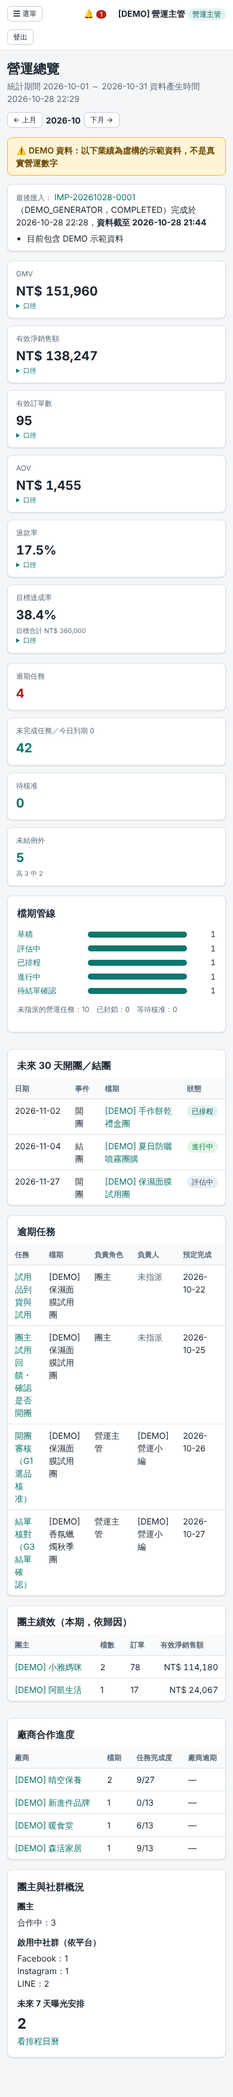
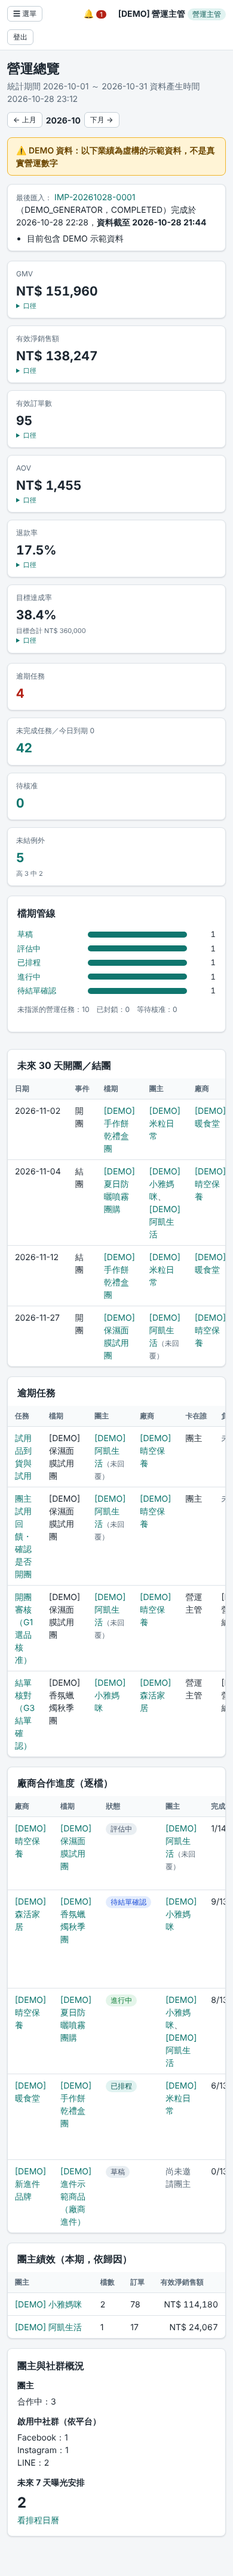
feat(dashboard): 總覽清單標出團主與廠商、逐檔廠商合作進度；修正手機版溢出
- 未來 30 天、逾期任務加入團主／廠商；一檔既開團又結團時兩事件皆列出
- 新增逐檔廠商合作進度（完成度、下一個任務、逾期）
- 窄螢幕格線 minmax(0,1fr)，修正 E2E 抓到的 78px 溢出
- 測試 +5（舊版跑紅 4 項）；文件同步

Claude-Session: https://claude.ai/code/session_01YSzTHPcBVxK1Rqana44Uqa

diff --git a/src/app/(app)/dashboard/page.tsx b/src/app/(app)/dashboard/page.tsx
@@ -5,7 +5,15 @@ import { Banner, Badge, Card, EmptyState, KpiCard, PageHeader, StatusBadge, Tabl
 import { CAMPAIGN_STATUS, SEVERITY, ownerRoleLabel, PLATFORM } from '@/ui/labels';
 import { fmtDateTime, money, num, pct } from '@/ui/format';
 import { STATUS_LABEL, type CampaignStatus } from '@/server/workflow/state';
-import { as, type AdminDash } from '@/ui/types';
+import { as, type AdminDash, type CampaignHostRef } from '@/ui/types';
+
+/** 檔期的參與團主：點名字進團主頁；未回覆的標示出來 */
+function HostNames({ hosts }: { hosts: CampaignHostRef[] }) {
+  if (!hosts.length) return <span className="muted">尚未邀請團主</span>;
+  return <>{hosts.map((h, i) => (
+    <span key={h.hostId}>{i ? '、' : ''}<Link href={`/hosts/${h.hostId}`}>{h.name}</Link>{h.status === 'CONFIRMED' ? '' : <span className="small muted">（{h.status === 'INVITED' ? '待回覆' : h.status === 'NO_RESPONSE' ? '未回覆' : h.status}）</span>}</span>
+  ))}</>;
+}
 
 export const dynamic = 'force-dynamic';
 
@@ -63,9 +71,9 @@ export default withActor(async (actor, props: { searchParams: SP }) => {
         </Card>
         <Card title="未來 30 天開團／結團" testid="upcoming" flush>
           {d.upcoming.length === 0 ? <EmptyState title="未來 30 天沒有開團或結團" /> : (
-            <Table head={['日期', '事件', '檔期', '狀態']}>
-              {(d.upcoming as { id: string; title: string; status: string; event: string; eventDate: string }[]).map((u) => (
-                <tr key={`${u.id}${u.event}`} data-testid={`upcoming-${u.id}`}><td className="nowrap">{u.eventDate}</td><td>{u.event === 'OPEN' ? '開團' : '結團'}</td><td><Link href={`/campaigns/${u.id}`}>{u.title}</Link></td><td><StatusBadge map={CAMPAIGN_STATUS} value={u.status} /></td></tr>
+            <Table head={['日期', '事件', '檔期', '團主', '廠商', '狀態']}>
+              {d.upcoming.map((u) => (
+                <tr key={`${u.id}${u.event}`} data-testid={`upcoming-${u.id}`}><td className="nowrap">{u.eventDate}</td><td>{u.event === 'OPEN' ? '開團' : '結團'}</td><td><Link href={`/campaigns/${u.id}`}>{u.title}</Link></td><td data-testid={`upcoming-hosts-${u.id}`}><HostNames hosts={u.hosts} /></td><td><Link href={`/vendors/${u.vendorId}`}>{u.vendorName}</Link></td><td><StatusBadge map={CAMPAIGN_STATUS} value={u.status} /></td></tr>
               ))}
             </Table>
           )}
@@ -74,29 +82,38 @@ export default withActor(async (actor, props: { searchParams: SP }) => {
 
       <Card title="逾期任務" testid="overdue-list" flush>
         {d.overdueTasks.length === 0 ? <EmptyState title="目前沒有逾期任務 🎉" /> : (
-          <Table head={['任務', '檔期', '負責角色', '負責人', '預定完成', '逾期']}>
-            {(d.overdueTasks as { id: string; name: string; campaignId: string; campaignTitle: string; ownerRole: string; assigneeName: string | null; plannedEnd: string; daysLate: number }[]).map((t) => (
-              <tr key={t.id} data-testid={`overdue-${t.id}`}><td><Link href={`/campaigns/${t.campaignId}?tab=tasks`}>{t.name}</Link></td><td>{t.campaignTitle}</td><td>{ownerRoleLabel(t.ownerRole)}</td><td>{t.assigneeName ?? <span className="muted">未指派</span>}</td><td>{t.plannedEnd}</td><td><Badge tone="danger">{t.daysLate} 天</Badge></td></tr>
+          <Table head={['任務', '檔期', '團主', '廠商', '卡在誰', '負責人', '預定完成', '逾期']}>
+            {d.overdueTasks.map((t) => (
+              <tr key={t.id} data-testid={`overdue-${t.id}`}><td><Link href={`/campaigns/${t.campaignId}?tab=tasks`}>{t.name}</Link></td><td>{t.campaignTitle}</td><td data-testid={`overdue-hosts-${t.id}`}><HostNames hosts={t.hosts} /></td><td><Link href={`/vendors/${t.vendorId}`}>{t.vendorName}</Link></td><td>{ownerRoleLabel(t.ownerRole)}</td><td>{t.assigneeName ?? <span className="muted">未指派</span>}</td><td>{t.plannedEnd}</td><td><Badge tone="danger">{t.daysLate} 天</Badge></td></tr>
             ))}
           </Table>
         )}
       </Card>
 
-      <div className="grid cols-2">
+      <Card title="廠商合作進度（逐檔）" testid="vendor-progress" flush>
+        {d.vendorCampaigns.length === 0 ? <EmptyState title="目前沒有進行中的廠商檔期" /> : (
+          <Table head={['廠商', '檔期', '狀態', '團主', '完成度', '下一個任務', '逾期']}>
+            {d.vendorCampaigns.map((v) => (
+              <tr key={v.campaignId} data-testid={`vendorprog-${v.campaignId}`}>
+                <td><Link href={`/vendors/${v.vendorId}`}>{v.vendorName}</Link></td>
+                <td><Link href={`/campaigns/${v.campaignId}`}>{v.title}</Link></td>
+                <td><StatusBadge map={CAMPAIGN_STATUS} value={v.status} /></td>
+                <td><HostNames hosts={v.hosts} /></td>
+                <td className="nowrap">{v.tasksDone}/{v.tasksTotal}（{v.tasksTotal ? Math.round((v.tasksDone / v.tasksTotal) * 100) : 0}%）</td>
+                <td>{v.nextTaskName ? <>{v.nextTaskName}<span className="small muted">&emsp;{v.nextTaskOwnerRole ? ownerRoleLabel(v.nextTaskOwnerRole) : ''}&emsp;{v.nextTaskDue ?? '未定'}</span></> : <span className="muted">全部完成</span>}</td>
+                <td>{v.overdue ? <Badge tone="danger">{v.overdue}{v.vendorOverdue ? `（廠商 ${v.vendorOverdue}）` : ''}</Badge> : '—'}</td>
+              </tr>
+            ))}
+          </Table>
+        )}
+      </Card>
+
+      <div>
         <Card title="團主績效（本期，依歸因）" testid="host-performance" flush>
           {!s ? <EmptyState title="無檢視權限" /> : d.hostPerformance.length === 0 ? <EmptyState title="本期沒有歸因到團主的訂單" hint={dq.status === 'NO_DATA' ? '待串接訂單資料' : undefined} /> : (
             <Table head={['團主', '檔數', '訂單', '有效淨銷售額']}>
               {(d.hostPerformance as { hostId: string; name: string; campaigns: number; net: number; orders: number }[]).map((h) => (
                 <tr key={h.hostId} data-testid={`hostperf-${h.hostId}`}><td><Link href={`/hosts/${h.hostId}`}>{h.name}</Link></td><td>{h.campaigns}</td><td>{h.orders}</td><td className="num">{money(h.net)}</td></tr>
-              ))}
-            </Table>
-          )}
-        </Card>
-        <Card title="廠商合作進度" testid="vendor-progress" flush>
-          {d.vendors.length === 0 ? <EmptyState title="目前沒有進行中的廠商檔期" /> : (
-            <Table head={['廠商', '檔期', '任務完成度', '廠商逾期']}>
-              {(d.vendors as { vendorId: string; name: string; campaigns: number; tasksTotal: number; tasksDone: number; vendorOverdue: number }[]).map((v) => (
-                <tr key={v.vendorId}><td><Link href={`/vendors/${v.vendorId}`}>{v.name}</Link></td><td>{v.campaigns}</td><td>{v.tasksDone}/{v.tasksTotal}</td><td>{v.vendorOverdue ? <Badge tone="danger">{v.vendorOverdue}</Badge> : '—'}</td></tr>
               ))}
             </Table>
           )}

diff --git a/src/server/modules/dashboard.ts b/src/server/modules/dashboard.ts
@@ -67,6 +67,11 @@ async function salesAgg(db: Queryable, scopeSql: string, scopeParams: unknown[],
   return r.rows.map((x) => ({ status: x.status, n: x.n, gross: Number(x.gross), refund: Number(x.refund), refundedN: x.refunded_n }));
 }
 
+/** 檔期的參與團主（不含已婉拒）：主要團主排前面。供儀表板清單標出「是哪位團主」 */
+const CAMPAIGN_HOSTS_JSON = `(SELECT coalesce(json_agg(json_build_object('hostId', h.id, 'name', h.display_name, 'role', ch.role, 'status', ch.status) ORDER BY (ch.role = 'PRIMARY') DESC, h.display_name), '[]'::json)
+  FROM campaign_hosts ch JOIN hosts h ON h.id = ch.host_id
+  WHERE ch.campaign_id = c.id AND ch.deleted_at IS NULL AND h.deleted_at IS NULL AND ch.status <> 'DECLINED')`;
+
 // ===================== 管理者 Dashboard =====================
 export async function getAdminDashboard(actor: Actor, periodYm?: string | null) {
   requirePerm(actor, 'dashboard.admin');
@@ -81,13 +86,15 @@ export async function getAdminDashboard(actor: Actor, periodYm?: string | null) 
   const showTargets = showSales && can(actor, 'campaign.sensitive.read');   // 檔期目標屬內部敏感資料
 
   const pipeline = (await db.query(`SELECT c.status, count(*)::int AS n FROM campaigns c WHERE (${sc.sql}) GROUP BY c.status`, sc.params)).rows;
+  // 一檔在 30 天內既開團又結團時，兩個事件都要列出（各一列）
+  const n0 = sc.params.length;
+  const upcomingSelect = (event: 'OPEN' | 'CLOSE', col: 'open_date' | 'close_date') =>
+    `SELECT c.id, c.title, c.status, c.open_date, c.close_date, c.vendor_id, v.name AS vendor_name, ${CAMPAIGN_HOSTS_JSON} AS hosts, '${event}' AS event, c.${col} AS event_date
+     FROM campaigns c JOIN vendors v ON v.id = c.vendor_id
+     WHERE (${sc.sql}) AND c.status NOT IN ('CLOSED','CANCELLED') AND c.${col} BETWEEN $${n0 + 1}::date AND $${n0 + 2}::date`;
   const upcoming = (await db.query(
-    `SELECT c.id, c.title, c.status, c.open_date, c.close_date,
-       CASE WHEN c.open_date BETWEEN $${sc.params.length + 1}::date AND $${sc.params.length + 2}::date THEN 'OPEN' ELSE 'CLOSE' END AS event,
-       CASE WHEN c.open_date BETWEEN $${sc.params.length + 1}::date AND $${sc.params.length + 2}::date THEN c.open_date ELSE c.close_date END AS event_date
-     FROM campaigns c WHERE (${sc.sql}) AND c.status NOT IN ('CLOSED','CANCELLED')
-       AND (c.open_date BETWEEN $${sc.params.length + 1}::date AND $${sc.params.length + 2}::date OR c.close_date BETWEEN $${sc.params.length + 1}::date AND $${sc.params.length + 2}::date)
-     ORDER BY event_date, c.id LIMIT 100`, [...sc.params, today, addDays(today, 30)])).rows;
+    `SELECT * FROM (${upcomingSelect('OPEN', 'open_date')} UNION ALL ${upcomingSelect('CLOSE', 'close_date')}) e
+     ORDER BY event_date, id, event DESC LIMIT 100`, [...sc.params, today, addDays(today, 30)])).rows;
 
   let sales = null;
   let unattributed: number | null = null;
@@ -142,8 +149,9 @@ export async function getAdminDashboard(actor: Actor, periodYm?: string | null) 
      FROM tasks t JOIN campaigns c ON c.id=t.campaign_id WHERE (${sc.sql}) AND c.status NOT IN ('CANCELLED','ON_HOLD','CLOSED')`, [...sc.params, today])).rows[0];
   const overdueList = (await db.query(
     `SELECT t.id, t.name, t.campaign_id, c.title AS campaign_title, t.owner_role, t.planned_end, u.name AS assignee_name,
+       c.vendor_id, v.name AS vendor_name, ${CAMPAIGN_HOSTS_JSON} AS hosts,
        ($${sc.params.length + 1}::date - t.planned_end)::int AS days_late
-     FROM tasks t JOIN campaigns c ON c.id=t.campaign_id LEFT JOIN users u ON u.id=t.assignee_user_id
+     FROM tasks t JOIN campaigns c ON c.id=t.campaign_id JOIN vendors v ON v.id=c.vendor_id LEFT JOIN users u ON u.id=t.assignee_user_id
      WHERE (${sc.sql}) AND c.status NOT IN ('CANCELLED','ON_HOLD','CLOSED') AND t.status IN ('TODO','IN_PROGRESS','BLOCKED','WAITING_APPROVAL') AND t.planned_end < $${sc.params.length + 1}::date
      ORDER BY t.planned_end, t.id LIMIT 20`, [...sc.params, today])).rows;
   const exceptions = can(actor, 'exception.read')
@@ -159,6 +167,20 @@ export async function getAdminDashboard(actor: Actor, periodYm?: string | null) 
        count(t.id) FILTER (WHERE t.owner_role='VENDOR' AND t.status IN ('TODO','IN_PROGRESS','BLOCKED') AND t.planned_end < $${sc.params.length + 1}::date)::int AS vendor_overdue
      FROM campaigns c JOIN vendors v ON v.id=c.vendor_id LEFT JOIN tasks t ON t.campaign_id=c.id
      WHERE (${sc.sql}) AND c.status NOT IN ('CLOSED','CANCELLED') GROUP BY v.id, v.name ORDER BY campaigns DESC, v.name LIMIT 30`, [...sc.params, today])).rows;
+  // 廠商合作進度（逐檔）：目前卡在哪個任務、是誰的、完成度、逾期數、哪些團主參與
+  const vendorCampaigns = (await db.query(
+    `SELECT c.id AS campaign_id, c.title, c.status, c.vendor_id, v.name AS vendor_name, c.open_date, c.close_date, ${CAMPAIGN_HOSTS_JSON} AS hosts,
+       count(t.id) FILTER (WHERE t.status NOT IN ('SKIPPED','CANCELLED'))::int AS tasks_total,
+       count(t.id) FILTER (WHERE t.status = 'DONE')::int AS tasks_done,
+       count(t.id) FILTER (WHERE t.status IN ('TODO','IN_PROGRESS','BLOCKED','WAITING_APPROVAL') AND t.planned_end < $${sc.params.length + 1}::date)::int AS overdue,
+       count(t.id) FILTER (WHERE t.owner_role = 'VENDOR' AND t.status IN ('TODO','IN_PROGRESS','BLOCKED') AND t.planned_end < $${sc.params.length + 1}::date)::int AS vendor_overdue,
+       nt.name AS next_task_name, nt.planned_end AS next_task_due, nt.owner_role AS next_task_owner_role
+     FROM campaigns c JOIN vendors v ON v.id = c.vendor_id LEFT JOIN tasks t ON t.campaign_id = c.id
+     LEFT JOIN LATERAL (SELECT x.name, x.planned_end, x.owner_role FROM tasks x WHERE x.campaign_id = c.id AND x.status IN ('TODO','IN_PROGRESS','BLOCKED','WAITING_APPROVAL')
+                        ORDER BY x.planned_end NULLS LAST, x.seq LIMIT 1) nt ON true
+     WHERE (${sc.sql}) AND c.status NOT IN ('CLOSED','CANCELLED')
+     GROUP BY c.id, v.id, v.name, nt.name, nt.planned_end, nt.owner_role
+     ORDER BY overdue DESC, c.open_date NULLS LAST, c.id LIMIT 50`, [...sc.params, today])).rows;
   const communities = (await db.query(
     `SELECT platform, count(*)::int AS n FROM communities WHERE organization_id=$1 AND deleted_at IS NULL AND status='ACTIVE' GROUP BY platform ORDER BY platform`, [actor.orgId])).rows;
   const hostCounts = (await db.query(`SELECT status, count(*)::int AS n FROM hosts WHERE organization_id=$1 AND deleted_at IS NULL GROUP BY status`, [actor.orgId])).rows;
@@ -186,6 +208,7 @@ export async function getAdminDashboard(actor: Actor, periodYm?: string | null) 
     exceptions: camelize(exceptions),
     pendingApprovals,
     vendors: camelize(vendors),
+    vendorCampaigns: camelize(vendorCampaigns),
   };
 }
 

diff --git a/tests/orders-dashboard.test.ts b/tests/orders-dashboard.test.ts
@@ -6,6 +6,7 @@ import { getAdminDashboard, getHostDashboard } from '@/server/modules/dashboard'
 import { computeSales } from '@/server/lib/kpi';
 import { todayTaipei } from '@/server/lib/ids';
 import type { Actor } from '@/server/lib/permissions';
+import type { AdminDash } from '@/ui/types';
 import { Client } from './api-helper';
 import { addUser, dayOffset, makeWorld, mkCampaign, mkCommunity, mkHost, mkProduct, mkVendor, type World } from './helpers';
 
@@ -262,5 +263,71 @@ describe('敏感欄位不經 Dashboard 外洩', () => {
     expect(JSON.stringify(d)).not.toContain('77777');
     const m = await getAdminDashboard(w.manager);
     expect(JSON.stringify(m)).toContain('77777');
+  });
+});
+
+describe('總覽清單標出是哪位團主、哪家廠商（未來 30 天、逾期任務、廠商合作進度）', () => {
+  let cidB: string, vendorB: string, hostB1: string, hostB2: string;
+
+  beforeAll(async () => {
+    const vB = await mkVendor(w);
+    vendorB = vB.id;
+    hostB1 = (await mkHost(w, '團主甲')).id; hostB2 = (await mkHost(w, '團主乙')).id;
+    cidB = (await mkCampaign(w, vendorB, { hosts: [{ hostId: hostB1 }, { hostId: hostB2 }], sampleReadyDate: dayOffset(-40), openDate: dayOffset(2), closeDate: dayOffset(12) }, w.manager)).id;
+  });
+
+  it('未來 30 天清單：每筆帶廠商與參與團主（含姓名與回覆狀態）', async () => {
+    const a = (await getAdminDashboard(w.manager)) as unknown as AdminDash;
+    const rows = a.upcoming.filter((u) => u.id === cidB);
+    expect(rows.map((r) => r.event).sort()).toEqual(['CLOSE', 'OPEN']);
+    for (const r of rows) {
+      expect(r.vendorId).toBe(vendorB);
+      expect(r.vendorName).toBeTruthy();
+      expect(r.hosts.map((h) => h.name).sort()).toEqual(['團主乙', '團主甲']);
+      expect(r.hosts.every((h) => h.status === 'INVITED')).toBe(true);
+    }
+  });
+
+  it('已婉拒的團主不列入清單', async () => {
+    await query(`UPDATE campaign_hosts SET status='DECLINED' WHERE campaign_id=$1 AND host_id=$2`, [cidB, hostB2]);
+    const a = (await getAdminDashboard(w.manager)) as unknown as AdminDash;
+    const row = a.upcoming.find((u) => u.id === cidB)!;
+    expect(row.hosts.map((h) => h.name)).toEqual(['團主甲']);
+  });
+
+  it('逾期任務：每筆帶檔期的團主與廠商，才知道要找誰', async () => {
+    const a = (await getAdminDashboard(w.manager)) as unknown as AdminDash;
+    const mine = a.overdueTasks.filter((t) => t.campaignId === cidB);
+    expect(mine.length).toBeGreaterThan(0);
+    for (const t of mine) {
+      expect(t.vendorId).toBe(vendorB);
+      expect(t.hosts.map((h) => h.name)).toEqual(['團主甲']);
+      expect(t.daysLate).toBeGreaterThan(0);
+    }
+  });
+
+  it('廠商合作進度（逐檔）：完成度、下一個任務與負責角色、逾期數、團主', async () => {
+    const a = (await getAdminDashboard(w.manager)) as unknown as AdminDash;
+    const row = a.vendorCampaigns.find((v) => v.campaignId === cidB)!;
+    expect(row.vendorId).toBe(vendorB);
+    expect(row.tasksTotal).toBeGreaterThan(0);
+    expect(row.tasksDone).toBe(0);
+    expect(row.overdue).toBeGreaterThan(0);
+    expect(row.nextTaskName).toBeTruthy();
+    expect(row.nextTaskOwnerRole).toBeTruthy();
+    expect(row.hosts.map((h) => h.name)).toEqual(['團主甲']);
+    const overdueFromList = a.overdueTasks.filter((t) => t.campaignId === cidB).length;
+    expect(row.overdue).toBeGreaterThanOrEqual(overdueFromList);
+    // 全部完成的檔期：下一個任務為空
+    await query(`UPDATE tasks SET status='DONE' WHERE campaign_id=$1`, [cidB]);
+    const b = (await getAdminDashboard(w.manager)) as unknown as AdminDash;
+    const done = b.vendorCampaigns.find((v) => v.campaignId === cidB)!;
+    expect(done.nextTaskName).toBeNull();
+    expect(done.overdue).toBe(0);
+    expect(done.tasksDone).toBe(done.tasksTotal);
+  });
+
+  it('團主與廠商角色不能看管理者總覽（看不到其他團主／廠商的資訊）', async () => {
+    await expect(getAdminDashboard(hostUser1)).rejects.toThrow();
   });
 });

diff --git a/src/ui/types.ts b/src/ui/types.ts
@@ -1,21 +1,24 @@
 /** 各服務函式回傳（經 camelize 後為 unknown）的前端檢視型別 */
 export interface Kpi { value: number | null; source?: string; formula?: string; label?: string }
 export interface DataQualityV { status: 'NO_DATA' | 'DEMO' | 'IMPORT' | 'MIXED'; statusLabel: string; lastImport: { id: string; finishedAt: string | null; dataAsOf: string | null; sourceSystem: string; status: string } | null; openImportErrors: number; warnings: string[] }
+export interface CampaignHostRef { hostId: string; name: string; role: string; status: string }
 export interface AdminDash {
   generatedAt: string; period: { month: string; from: string; to: string }; dataQuality: DataQualityV;
   sales: { gmv: Kpi; refund: Kpi; net: Kpi; orders: Kpi; aov: Kpi; refundRate: Kpi } | null;
   targets: { total: number | null; attainment: Kpi; byCampaign: { id: string; title: string; target: number; net: number; attainment: number | null }[] } | null;
   unattributedNet: number | null;
   pipeline: { status: string; n: number }[];
-  upcoming: { id: string; title: string; status: string; event: string; eventDate: string }[];
+  upcoming: { id: string; title: string; status: string; event: string; eventDate: string; vendorId: string; vendorName: string; hosts: CampaignHostRef[] }[];
   hostPerformance: { hostId: string; name: string; campaigns: number; net: number; orders: number }[];
   communities: { byPlatform: { platform: string; n: number }[]; plannedPlacementsNext7Days: number };
   hosts: { status: string; n: number }[];
   tasks: { open: number; overdue: number; dueToday: number; unassigned: number; blocked: number; waitingApproval: number };
-  overdueTasks: { id: string; name: string; campaignId: string; campaignTitle: string; ownerRole: string; assigneeName: string | null; plannedEnd: string; daysLate: number }[];
+  overdueTasks: { id: string; name: string; campaignId: string; campaignTitle: string; ownerRole: string; assigneeName: string | null; plannedEnd: string; daysLate: number; vendorId: string; vendorName: string; hosts: CampaignHostRef[] }[];
   exceptions: { severity: string; n: number }[];
   pendingApprovals: number;
   vendors: { vendorId: string; name: string; campaigns: number; live: number; tasksTotal: number; tasksDone: number; vendorOverdue: number }[];
+  vendorCampaigns: { campaignId: string; title: string; status: string; vendorId: string; vendorName: string; openDate: string | null; closeDate: string | null; hosts: CampaignHostRef[];
+    tasksTotal: number; tasksDone: number; overdue: number; vendorOverdue: number; nextTaskName: string | null; nextTaskDue: string | null; nextTaskOwnerRole: string | null }[];
 }
 export interface HostDash {
   generatedAt: string; host: { id: string; name: string }; period: { month: string; from: string; to: string }; dataQuality: DataQualityV;

diff --git a/src/app/globals.css b/src/app/globals.css
@@ -122,14 +122,14 @@ pre.diff { background: var(--surface-2); border: 1px solid var(--border); paddin
 
 @media (max-width: 960px) {
   .grid.cols-4, .grid.cols-6, .grid.cols-3 { grid-template-columns: repeat(2, minmax(0,1fr)); }
-  .grid.cols-2 { grid-template-columns: 1fr; }
+  .grid.cols-2 { grid-template-columns: minmax(0,1fr); }
 }
 @media (max-width: 760px) {
   .shell { grid-template-columns: 1fr; }
   .sidebar { position: static; height: auto; display: none; } .sidebar.open { display: block; }
   .btn.menu-toggle { display: inline-flex; }
   .content { padding: 14px 12px 50px; } .topbar { padding: 8px 12px; flex-wrap: wrap; }
-  .grid.cols-2, .grid.cols-3, .grid.cols-4, .grid.cols-6, .form-grid { grid-template-columns: 1fr; }
+  .grid.cols-2, .grid.cols-3, .grid.cols-4, .grid.cols-6, .form-grid { grid-template-columns: minmax(0,1fr); }
   .tl-head, .tl-row { grid-template-columns: 90px repeat(13, minmax(18px,1fr)); }
   .kv { grid-template-columns: 100px 1fr; }
 }

diff --git a/docs/DASHBOARD_SPEC.md b/docs/DASHBOARD_SPEC.md
@@ -73,3 +73,17 @@
 - 不顯示成本、毛利、淨利（財務模組屬 Phase 2）。
 - 不做預測或趨勢外推。
 - 沒有訂單就不顯示業績數字。
+
+## 管理者總覽：清單要看得出「是哪位團主、哪家廠商」（2026-10-28 補強）
+
+來源：2026-11-03 討論前的使用回饋——只看到檔期名稱，還得再點進去確認是哪位團主的問題，無法即時反應。
+
+| 區塊 | 新增內容 | 口徑 |
+|---|---|---|
+| 未來 30 天開團／結團 | 團主、廠商欄；一檔 30 天內既開團又結團時各列一列 | 團主＝該檔期未婉拒的團主（主要團主排前面）；未回覆者標「待回覆／未回覆」 |
+| 逾期任務 | 團主、廠商、卡在誰（負責角色）欄 | 任務屬於檔期，因此顯示該檔期的團主；多位團主時全部列出 |
+| 廠商合作進度（逐檔） | 廠商、檔期、狀態、團主、完成度（完成／總任務）、下一個任務（負責角色與日期）、逾期數（含廠商自己的逾期） | 下一個任務＝該檔期未完成任務中預定完成日最早者；完成度不計已略過／已取消任務 |
+
+限制：任務目前是「一檔一份」，不是每位團主一份（FEATURE_STATUS #15）；因此多團主的檔期，逾期任務會列出所有參與團主，無法指出是其中哪一位。若要精確到單一團主，需把團主任務拆成每位團主一份（尚未做，列入待決）。
+
+權限：僅有 `dashboard.admin` 的內部角色看得到；團主與廠商角色不能開這個總覽（測試鎖住）。

diff --git a/docs/DEVELOPMENT_LOG.md b/docs/DEVELOPMENT_LOG.md
@@ -161,6 +161,22 @@
 ### 未解與待 Owner 決策
 見 SRS 第 9 節（D-01～D-17）、第 11 節（落差 G-01～G-09、測試缺口 T-01～T-10）與安全審查第 5 節。
 
+## 2026-10-28｜總覽清單標出團主與廠商（分支 `feat/dashboard-people`）
+
+### 目標
+討論前的使用回饋：「未來 30 天開團／結團」、逾期任務、廠商合作進度只看到檔期，無法即時知道是哪位團主、哪家廠商的問題。
+
+### 變更
+- `src/server/modules/dashboard.ts`：未來 30 天、逾期任務加入團主與廠商；新增逐檔的廠商合作進度（`vendorCampaigns`）；一檔 30 天內既開團又結團時兩個事件都列出（原本只列開團）。
+- `src/app/(app)/dashboard/page.tsx`：對應欄位與連結；`src/app/globals.css`：窄螢幕格線改 `minmax(0,1fr)`，修正表格變寬造成的手機版水平溢出。
+- 測試 +5（`tests/orders-dashboard.test.ts`），舊版程式跑會紅 4 項。
+
+### 證據
+`tsc`、`eslint` 乾淨；`vitest` 16 檔 310 項；E2E 49/49（過程中抓到手機版溢出 78px，修正後轉綠）；DEMO 資料實際畫面核對。
+
+### 限制
+任務為一檔一份，多團主檔期無法指出是哪一位；是否拆成每位團主一份待決。
+
 ## 後續紀錄格式
 
 每次變更新增一節，至少包含：

diff --git a/docs/TEST_REPORT.md b/docs/TEST_REPORT.md
@@ -9,7 +9,7 @@
 |---|---|:-:|---|
 | Typecheck | `npm run typecheck`（`tsc --noEmit`） | 0 | 無錯誤 |
 | Lint | `npm run lint`（`eslint .`） | 0 | 0 error、0 warning |
-| 單元＋整合＋API＋RBAC＋情境＋Migration | `npm test`（`vitest run`） | 0 | **16 個檔案、305 項測試全部通過**（約 40 秒；含 Phase 2 履約 29、售後 31、財務 22，安全審查 53 項與 API 模糊測試 7 項，另有 CSRF 比對測試） |
+| 單元＋整合＋API＋RBAC＋情境＋Migration | `npm test`（`vitest run`） | 0 | **16 個檔案、310 項測試全部通過**（約 40 秒；含 Phase 2 履約 29、售後 31、財務 22，安全審查 53 項與 API 模糊測試 7 項，另有 CSRF 比對測試） |
 | Build | `npm run build`（`next build`） | 0 | 成功，36 個頁面路由＋1 個 API 入口 |
 | E2E 煙霧測試 | `E2E_PASSWORD=… npm run e2e` | 0 | **49/49 通過**（`docs/uat/e2e-results.json`） |
 | DEMO 種子 | `npm run db:seed:demo` | 0 | 4 檔團購、110 張虛構訂單 |

diff --git a/docs/BRIEFING_2026-11-03.md b/docs/BRIEFING_2026-11-03.md
@@ -11,7 +11,7 @@
 | 管理頁面 | 37 個（繁體中文） |
 | API 端點 | 130 個 |
 | 資料表／遷移 | 53 張表、12 支 migration |
-| 自動化測試 | 16 檔 305 項（真實 PostgreSQL）＋ 瀏覽器 E2E 49 項，全數通過 |
+| 自動化測試 | 16 檔 310 項（真實 PostgreSQL）＋ 瀏覽器 E2E 49 項，全數通過 |
 | 角色／權限 | 6 種角色、43 項權限，後端強制資料範圍 |
 | 需求規格 | 功能需求 142 條：已實作 106、部分實作 16、未開始 13、被外部資源卡住 7 |
 

diff --git a/README.md b/README.md
@@ -6,7 +6,7 @@
 >
 > | 項目 | 數字（以 CI 為準） |
 > |---|---|
-> | 自動化測試 | 16 檔 305 項（真實 PostgreSQL，含安全審查與 API 模糊測試）＋ E2E 49 項 |
+> | 自動化測試 | 16 檔 310 項（真實 PostgreSQL，含安全審查與 API 模糊測試）＋ E2E 49 項 |
 > | 資料表／遷移 | 53 張表、12 支 migration |
 > | API 端點 | 130 個（[清單](docs/generated/API_ENDPOINTS.md)） |
 > | 角色／權限 | 6 種角色、43 項權限 |
